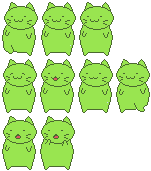
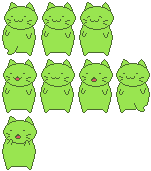
change: turn walk anim into dance anim

diff --git a/src/scenes/MainScene.ts b/src/scenes/MainScene.ts
@@ -1,4 +1,5 @@
 import { GUI } from "dat.gui";
+import ms from "ms";
 import { Scene } from "phaser";
 import { ChatUserstate, Client } from "tmi.js";
 import { ChatterTracker } from "../components/ChatterTracker";
@@ -6,10 +7,6 @@ import { DiceRoll } from "../components/DiceRoll";
 import { Neko } from "../components/Neko";
 import { DEV } from "../dev-config";
 import { Scenes } from "./Scenes";
-
-const oneMinute = 60000;
-
-const cfg = {};
 
 const tmiConfig = {
     options: { debug: true },
@@ -47,7 +44,6 @@ export class MainScene extends Scene {
             )
             .text("fire-effect", "assets/particles/fire-at-bottom.json")
             .text("starshower-effect", "assets/particles/starshower.json")
-            // .image("textbox", "assets/images/textbox.png")
             .audio("fanfare", "assets/sounds/teawars-fanfare.mp3")
             .audio("diceroll", "assets/sounds/diceroll.mp3")
             .aseprite({
@@ -236,12 +232,12 @@ export class MainScene extends Scene {
 
         if (DEV.enabled) emitter.setY(-80); // not in fullscreen in dev
 
-        this.time.delayedCall(oneMinute, () => emitter.destroy());
+        this.time.delayedCall(ms("1 minute"), () => emitter.destroy());
     }
 
     private emitStarshower() {
         const emitter = this.makeEmitter("starshower-effect");
-        this.time.delayedCall(oneMinute, () => emitter.destroy());
+        this.time.delayedCall(ms("1 minute"), () => emitter.destroy());
     }
 
     /** @example diceRoll('!roll 100') roles a d100 */

diff --git a/src/components/Neko.ts b/src/components/Neko.ts
@@ -5,7 +5,7 @@ import { GameObjects, Scene, Types } from "phaser";
 type AnimationKey =
     | "idle"
     | "laugh"
-    | "walk"
+    | "dance"
     | "eyes"
     | "laugh"
     | "talk"
@@ -16,7 +16,7 @@ type AnimationConfig = Omit<Types.Animations.PlayAnimationConfig, "key"> & {
     key: AnimationKey;
 };
 
-const anims = ["walk", "idle", "eyes", "laugh", "oh"] as const;
+const anims = ["dance", "idle", "eyes", "laugh", "oh"] as const;
 const Cfg = {
     initialTimeToNextAnim: ms("5 second"),
     timeToNextAnimMin: ms("1 second"),
@@ -64,7 +64,7 @@ export class Neko extends GameObjects.Sprite {
         scene.add.existing(this);
         scene.anims.createFromAseprite(texture, undefined, this);
         this.setScale(config?.scale ?? 3);
-        this.playAnim({ key: "walk" });
+        this.playAnim({ key: "dance" });
         if (config?.viewDirection === "right") this.setFlipX(true);
 
         this.lovesCheezburger = config?.lovesCheezburger || false;

diff --git a/src/dev-config.ts b/src/dev-config.ts
@@ -5,6 +5,6 @@ export const DEV = isProd
     ? {}
     : {
           enabled: true,
-          dontConnectToTwitch: false,
+          dontConnectToTwitch: true,
           enableSceneWatcher: false,
       };
